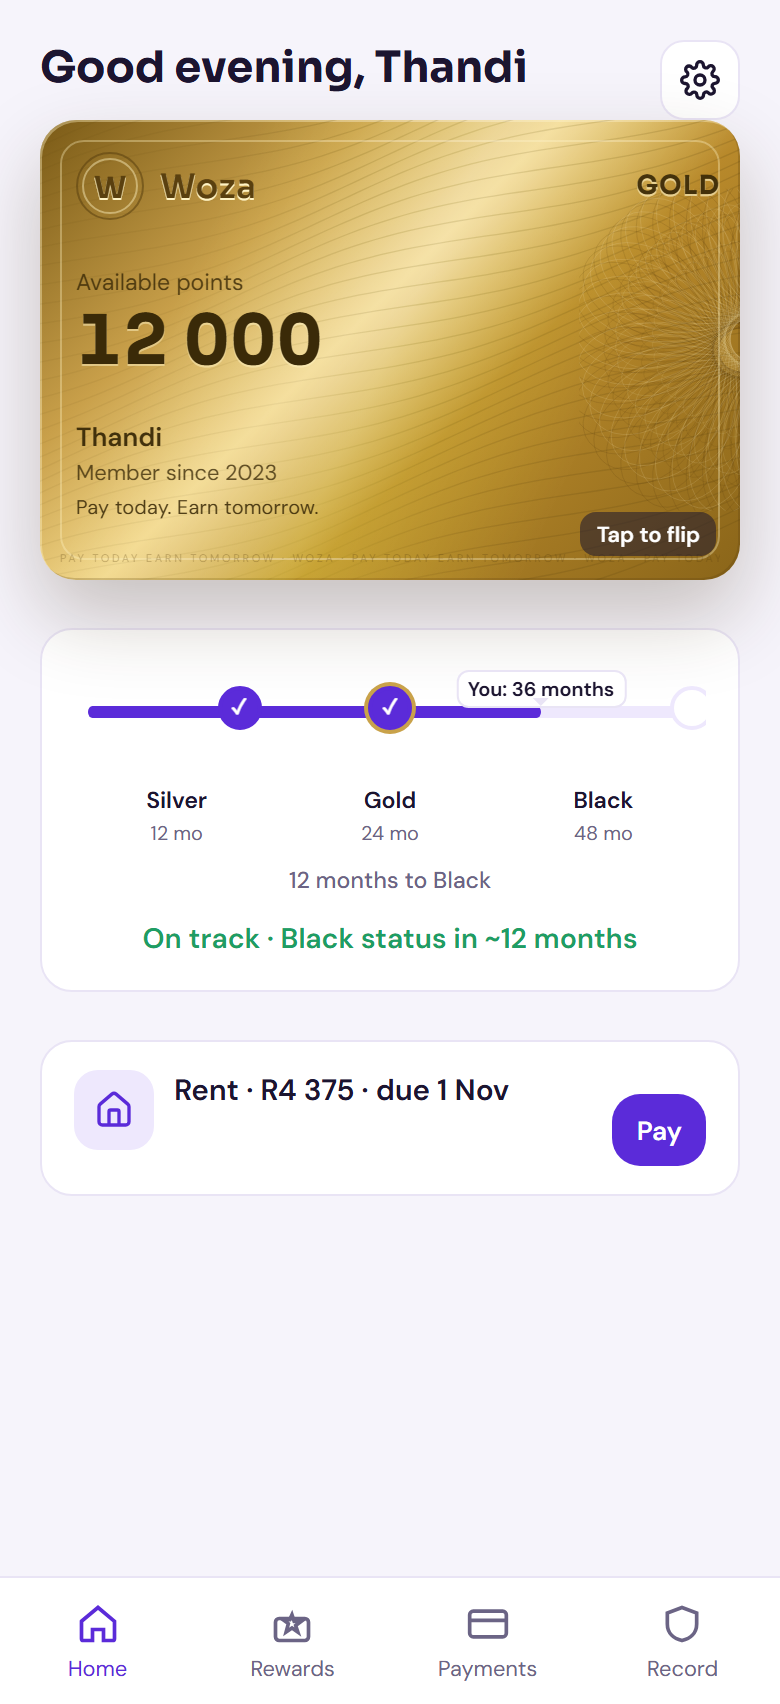
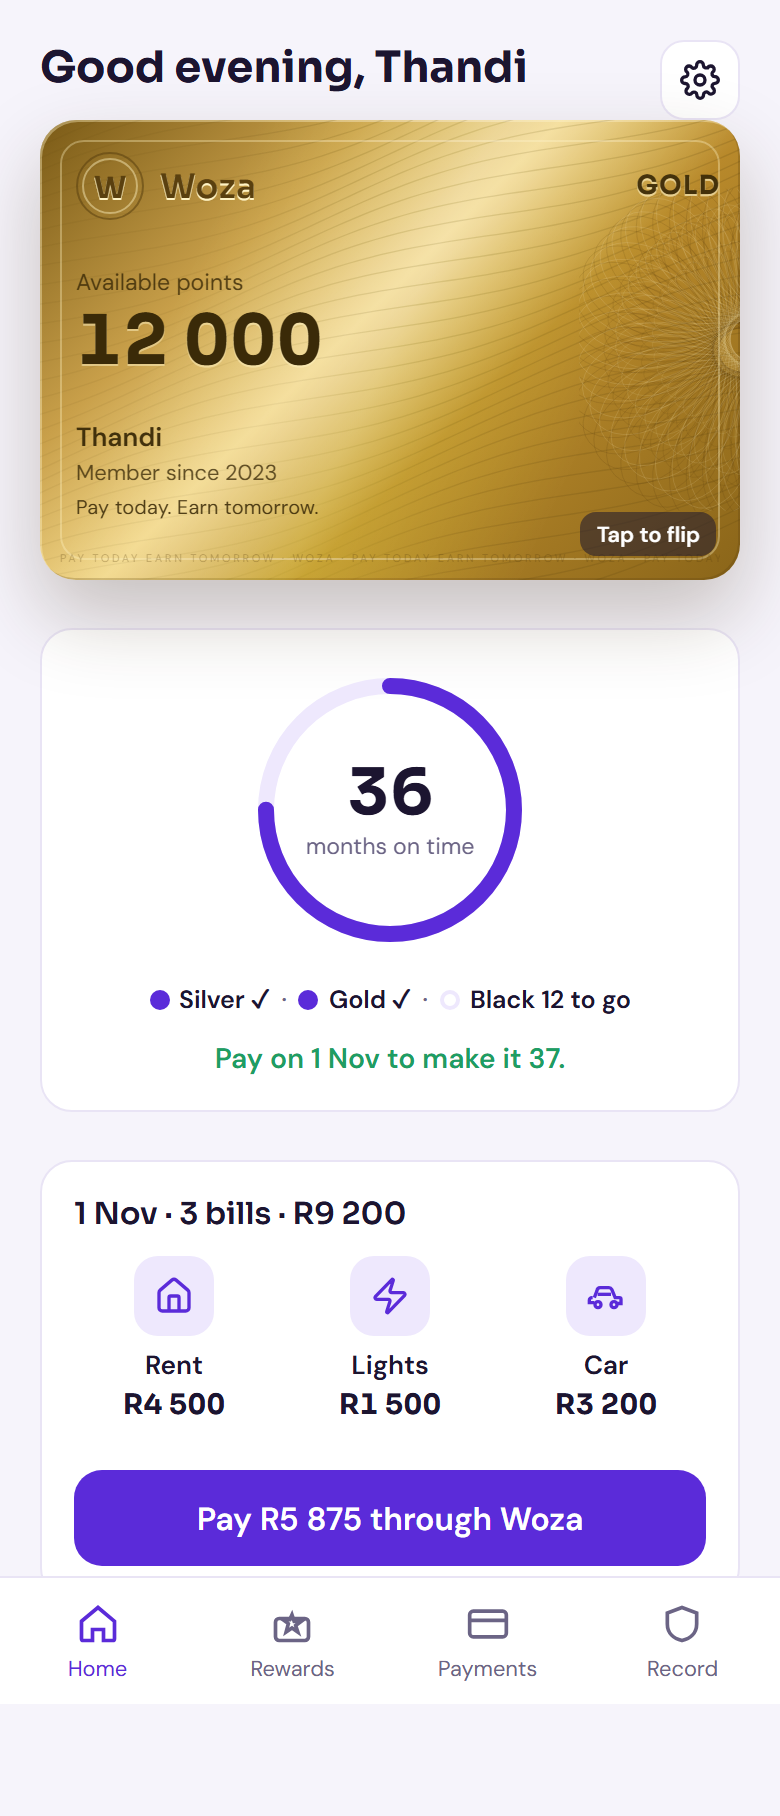
feat: Home — streak wheel, this month, no prose

diff --git a/static/index.html b/static/index.html
@@ -25,7 +25,7 @@
   <link rel="preconnect" href="https://fonts.gstatic.com" crossorigin />
   <link rel="stylesheet" href="https://fonts.googleapis.com/css2?family=DM+Sans:wght@400;500;600&family=Sora:wght@600;700&display=swap" media="print" onload="this.media='all'" />
   <noscript><link rel="stylesheet" href="https://fonts.googleapis.com/css2?family=DM+Sans:wght@400;500;600&family=Sora:wght@600;700&display=swap" /></noscript>
-  <link rel="stylesheet" href="/static/woza-card.css?v=20" />
+  <link rel="stylesheet" href="/static/woza-card.css?v=22" />
   <style>
     :root {
       --bg: #F6F4FB;
@@ -128,6 +128,31 @@
       color: var(--verified); font-weight: 600; font-size: 0.88rem;
       text-align: center; margin-top: 12px; line-height: 1.35;
     }
+    .home-status.is-nudge {
+      color: var(--gold); width: 100%; background: none; border: none;
+      padding: 0; font: inherit; font-weight: 600; font-size: 0.88rem;
+    }
+    .streak-dots {
+      display: flex; justify-content: center; align-items: center; flex-wrap: wrap;
+      gap: 6px; margin-top: 4px; font-size: 0.78rem; font-weight: 600;
+    }
+    .streak-dot-item { display: inline-flex; align-items: center; gap: 5px; white-space: nowrap; }
+    .streak-pip {
+      width: 10px; height: 10px; border-radius: 50%; flex-shrink: 0;
+      border: 2px solid var(--primary-soft); background: var(--surface); box-sizing: border-box;
+    }
+    .streak-dot-item.reached .streak-pip {
+      background: var(--primary); border-color: var(--primary);
+    }
+    .streak-sep { color: var(--muted); font-weight: 500; }
+    .month-bills {
+      display: grid; grid-template-columns: 1fr 1fr 1fr; gap: 8px;
+      margin: 12px 0;
+    }
+    .month-bill { text-align: center; min-width: 0; }
+    .month-bill .icon-wrap { margin: 0 auto 6px; }
+    .month-bill .row-title { font-size: 0.82rem; }
+    .month-bill .font-num { font-size: 0.88rem; margin-top: 2px; }
     .login-or {
       text-align: center; color: var(--muted); font-size: 0.82rem;
       margin: 16px 0 8px;
@@ -412,6 +437,9 @@
     .home-intro .score-fill {
       animation: scoreDraw var(--t-score) var(--ease-out) 650ms both;
     }
+    .home-intro .streak-ring .score-fill {
+      animation: streakDraw var(--t-score) var(--ease-out) 650ms both;
+    }
     .home-intro .score-ring em {
       opacity: 0;
       animation: fadeIn var(--t-fast) ease-out calc(650ms + var(--t-score)) both;
@@ -447,6 +475,10 @@
       from { stroke-dashoffset: 169.65; }
       to { stroke-dashoffset: var(--score-offset, 21.54); }
     }
+    @keyframes streakDraw {
+      from { stroke-dashoffset: 389.56; }
+      to { stroke-dashoffset: var(--forecast-offset, 97.39); }
+    }
 
     @media (prefers-reduced-motion: reduce) {
       .home-intro .card-flip,
@@ -455,6 +487,7 @@
       .home-intro .tier-stop.reached .tier-dot,
       .home-intro .tier-you,
       .home-intro .score-fill,
+      .home-intro .streak-ring .score-fill,
       .home-intro .score-ring em,
       .home-intro .bill-row,
       .sheet-check-mark,
@@ -465,6 +498,7 @@
       .home-intro .bill-row { opacity: 1 !important; transform: none !important; }
       .home-intro .tier-ladder-fill { transform: scaleX(var(--fill-to, 0.75)) !important; }
       .home-intro .score-fill { stroke-dashoffset: var(--score-offset, 21.54) !important; }
+      .home-intro .streak-ring .score-fill { stroke-dashoffset: var(--forecast-offset, 97.39) !important; }
       .sheet-check-mark { stroke-dashoffset: 0 !important; }
       .is-press, .is-release, .tap-press { transform: none !important; transition: none !important; }
       #appView .screen { transition: none !important; }
@@ -636,7 +670,7 @@
     </div>
   </div>
   <script src="/static/qrcode.js"></script>
-  <script src="/static/woza-card.js?v=20"></script>
+  <script src="/static/woza-card.js?v=22"></script>
 
   <script>
     const IC = {
@@ -805,54 +839,60 @@
       return u.available_points ?? u.points ?? 0;
     }
 
-    function tierLadderData(h, u) {
-      const mot = u.months_on_time ?? 36;
-      const max = 48;
-      if (h && h.tier_ladder) return h.tier_ladder;
-      const fill = Math.min(100, Math.round((mot / max) * 100));
-      const toBlack = Math.max(0, max - mot);
-      return {
-        months: mot,
-        max_months: max,
-        fill_pct: fill,
-        marker_pct: fill,
-        marker_label: `You: ${mot} months`,
-        caption_line: `${toBlack} months to Black`,
-        stops: [
-          { tier: "Silver", months: 12, pct: 25, reached: mot >= 12 },
-          { tier: "Gold", months: 24, pct: 50, reached: mot >= 24 },
-          { tier: "Black", months: 48, pct: 100, reached: mot >= 48 },
-        ],
-      };
+    const STREAK_MAX = 48;
+    const STREAK_C = 389.56;
+    const STREAK_STOPS = [
+      { name: "Silver", at: 12 },
+      { name: "Gold", at: 24 },
+      { name: "Black", at: 48 },
+    ];
+
+    function streakOffset(months) {
+      const p = Math.min(1, Math.max(0, Number(months) || 0) / STREAK_MAX);
+      return (STREAK_C * (1 - p)).toFixed(2);
     }
 
-    function tierLadderHtml(ladder) {
-      const check = "✓";
-      const stops = ladder.stops.map(s => {
-        const cls = [
-          "tier-stop",
-          String(s.tier || "").toLowerCase().replace(/[^a-z]/g, ""),
-          s.reached ? "reached" : "",
-        ].filter(Boolean).join(" ");
-        const inner = s.reached ? check : "";
-        return `<div class="${cls}" style="left:${Number(s.pct) || 0}%;--pop-at:${(Number(s.pct) / 100).toFixed(2)}"><div class="tier-dot">${inner}</div></div>`;
-      }).join("");
-      const labels = ladder.stops.map(s =>
-        `<span>${escapeHtml(s.tier)}</span>`).join("");
-      const subs = ladder.stops.map(s =>
-        `<span>${escapeHtml(s.months)} mo</span>`).join("");
-      return `
-        <div class="tier-ladder">
-          <div class="tier-ladder-rail">
-            <div class="tier-ladder-track"></div>
-            <div class="tier-ladder-fill" style="--fill-to:${(Number(ladder.fill_pct) / 100).toFixed(3)}"></div>
-            ${stops}
-            <div class="tier-you" style="left:${Number(ladder.marker_pct) || 0}%">${escapeHtml(ladder.marker_label)}</div>
-          </div>
-          <div class="tier-ladder-labels">${labels}</div>
-          <div class="tier-ladder-subs">${subs}</div>
-          <p class="tier-ladder-caption">${escapeHtml(ladder.caption_line)}</p>
-        </div>`;
+    function streakDotsHtml(months) {
+      const next = STREAK_STOPS.find((s) => months < s.at);
+      return STREAK_STOPS.map((s) => {
+        const reached = months >= s.at;
+        const isNext = !!(next && s.name === next.name);
+        const label = reached
+          ? `${s.name} ✓`
+          : isNext
+            ? `${s.name} ${s.at - months} to go`
+            : s.name;
+        return `<span class="streak-dot-item${reached ? " reached" : ""}"><i class="streak-pip" aria-hidden="true"></i>${escapeHtml(label)}</span>`;
+      }).join('<span class="streak-sep">·</span>');
+    }
+
+    function dueShortDate() {
+      const raw = (state && state.meta && state.meta.due_display) || "1 Nov 2026";
+      return String(raw).replace(/\s+\d{4}$/, "").trim() || "1 Nov";
+    }
+
+    function shortBillName(b) {
+      const cat = (b && b.category) || "";
+      if (cat === "utilities" || cat === "electricity") return "Lights";
+      if (cat === "car") return "Car";
+      if (cat === "rent") return "Rent";
+      const n = String((b && b.name) || "");
+      if (/utilit|electric|light/i.test(n)) return "Lights";
+      if (/car/i.test(n)) return "Car";
+      if (/rent/i.test(n)) return "Rent";
+      return n.split(/\s+/)[0] || "Bill";
+    }
+
+    function wozaPayDisplay() {
+      const p = (state && state.payments) || {};
+      const line = String(p.hero_you_pay_line || "");
+      const m = line.match(/R[\d\s]+/);
+      if (m) return m[0].replace(/\s+$/, "");
+      return p.hero_amount || "";
+    }
+
+    function randFromCents(cents) {
+      return `R${fmtPts(Math.floor((Number(cents) || 0) / 100))}`;
     }
 
     function syncWozaCardConfig() {
@@ -933,12 +973,17 @@
       if (ptsEl) ptsEl.textContent = fmtPts(0);
       if (prefersReduced()) {
         if (ptsEl) ptsEl.textContent = fmtPts(pts);
+        const streakEl = home.querySelector("[data-streak-num]");
+        if (streakEl) streakEl.textContent = String(Number((u && u.months_on_time) || 0));
         displayPoints = pts;
         markHomeIntroDone();
         home.classList.remove("home-intro");
         return;
       }
       countEase(ptsEl, 0, pts, 900, 250);
+      const streakEl = home.querySelector("[data-streak-num]");
+      const streakTo = Number((u && u.months_on_time) || 0);
+      if (streakEl) countEase(streakEl, 0, streakTo, 900, 400);
       homeIntroTimers.push(setTimeout(() => { displayPoints = pts; }, 1200));
       homeIntroTimers.push(setTimeout(() => {
         markHomeIntroDone();
@@ -1020,59 +1065,66 @@
 
     function renderHome() {
       const u = state.user;
-      const h = state.home || {};
-      const ladder = tierLadderData(h, u);
-      const next = nextActionBill();
-      const tight = tightForecastBill();
-      const overall = (forecastState && forecastState.overall) || {};
-      const nextStatus = overall.next_status || "Black";
-      const monthsTo = Number(overall.months_to_next_status ?? 12);
-      const canPay = next && next.payable_through_woza && !next.paid && !next.grace_used;
-      let trackExtra = "";
-      if (forecastState && !tight) {
-        trackExtra = `<p class="home-status">On track · ${escapeHtml(nextStatus)} status in ~${monthsTo} months</p>`;
+      const months = Number(u.months_on_time ?? 0);
+      const bills = paymentBills();
+      const tight = months > 0 ? tightForecastBill() : null;
+      const tightPay = tight ? (paymentBillById(tight.bill_id) || nextActionBill()) : null;
+      const due = dueShortDate();
+      const totalCents = bills.reduce((sum, b) => sum + (Number(b.amount_cents) || 0), 0);
+      const payAmt = wozaPayDisplay();
+      const p = state.payments || {};
+      const ringLabel = months <= 0 ? "Start your streak" : "months on time";
+      let lineHtml = "";
+      if (tight && tightPay) {
+        const short = shortBillName(tightPay);
+        const amt = tightPay.amount_display || randFromCents(tightPay.amount_cents);
+        lineHtml = `<button type="button" class="home-status is-nudge" id="homeNudge">${escapeHtml(short)} · ${escapeHtml(amt)} · looks tight — use a grace month?</button>`;
+      } else if (months <= 0) {
+        lineHtml = `<p class="home-status">Pay your first bill through Woza to start.</p>`;
+      } else {
+        lineHtml = `<p class="home-status">Pay on ${escapeHtml(due)} to make it ${months + 1}.</p>`;
       }
-      let nudgeHtml = "";
-      if (tight) {
-        const payBill = paymentBillById(tight.bill_id) || next;
-        const line = payBill ? billDueLine(payBill) : `${tight.name}`;
-        nudgeHtml = `
-          <div class="panel section">
-            <p class="row-title">${escapeHtml(line)}. Looks tight — use a grace month?</p>
-            <button type="button" class="btn-primary" id="homeGraceBtn" style="margin-top:12px">Use a grace month</button>
-          </div>`;
-      }
-      const nextHtml = next ? `
-        <div class="group-list section">
-          <div class="group-row bill-row" id="homeNextBill">
-            <span class="icon-wrap">${IC[next.category] || IC.rent}</span>
-            <div class="row-text">
-              <div class="row-title">${escapeHtml(billDueLine(next))}</div>
-            </div>
-            <div class="row-action">${canPay
-              ? `<button type="button" class="btn-primary" style="width:auto;height:36px;padding:0 12px;font-size:0.82rem;white-space:nowrap" id="homePayBtn">Pay</button>`
-              : (next.paid ? `<span class="badge badge-paid">Paid ✓</span>` : "")}</div>
-          </div>
-        </div>` : "";
+      const monthBills = bills.map((b) => `
+        <div class="month-bill">
+          <span class="icon-wrap">${IC[b.category] || IC.rent}</span>
+          <div class="row-title">${escapeHtml(shortBillName(b))}</div>
+          <div class="font-num">${escapeHtml(b.amount_display || randFromCents(b.amount_cents))}</div>
+        </div>`).join("");
+      const payBtnHtml = (p.payable_outstanding && payAmt)
+        ? `<button type="button" class="btn-primary" id="homePayWoza">Pay ${escapeHtml(payAmt)} through Woza</button>`
+        : "";
       document.getElementById("screenHome").innerHTML = `
         <div class="home-head">
           <h2 class="page-title home-greeting">${localGreeting(u.name)}</h2>
           <button type="button" class="home-gear" id="homeGear" aria-label="Settings">
-            <svg viewBox="0 0 24 24"><circle cx="12" cy="12" r="3"/><path d="M19.4 15a1.7 1.7 0 0 0 .3 1.8l.1.1a2 2 0 1 1-2.8 2.8l-.1-.1a1.7 1.7 0 0 0-1.8-.3 1.7 1.7 0 0 0-1 1.5V21a2 2 0 1 1-4 0v-.1a1.7 1.7 0 0 0-1-1.5 1.7 1.7 0 0 0-1.8.3l-.1.1a2 2 0 1 1-2.8-2.8l.1-.1a1.7 1.7 0 0 0 .3-1.8 1.7 1.7 0 0 0-1.5-1H3a2 2 0 1 1 0-4h.1a1.7 1.7 0 0 0 1.5-1 1.7 1.7 0 0 0-.3-1.8l-.1-.1a2 2 0 1 1 2.8-2.8l.1.1a1.7 1.7 0 0 0 1.8.3H9a1.7 1.7 0 0 0 1-1.5V3a2 2 0 1 1 4 0v.1a1.7 1.7 0 0 0 1 1.5 1.7 1.7 0 0 0 1.8-.3l.1-.1a2 2 0 1 1 2.8 2.8l-.1.1a1.7 1.7 0 0 0-.3 1.8V9c.3.6.9 1 1.5 1H21a2 2 0 1 1 0 4h-.1a1.7 1.7 0 0 0-1.5 1z"/></svg>
+            <svg viewBox="0 0 24 24"><circle cx="12" cy="12" r="3"/><path d="M19.4 15a1.7 1.7 0 0 0 .3 1.8l.1.1a2 2 0 1 1-2.8 2.8l-.1-.1a1.7 1.7 0 0 0-1.8-.3 1.7 1.7 0 0 0-1 1.5V21a2 2 0 1 1-4 0v-.1a1.7 1.7 0 0 0-1-1.5 1.7 1.7 0 0 0-1.8.3l-.1.1a2 2 0 1 1-2.8-2.8l.1-.1a1.7 1.7 0 0 0 .3-1.8 1.7 1.7 0 0 0-1.5-1H3a2 2 0 1 1 0-4h.1a1.7 1.7 0 0 0 1.5-1 1.7 1.7 0 0 0-.3-1.8l-.1-.1a2 2 0 1 1 2.8-2.8l.1.1a1.7 1.7 0 0 0 1.8.3H9a1.7 1.7 0 0 0 1-1.5V3a2 2 0 1 1 4 0v.1a1.7 1.7 0 0 0 1 1.5 1.7 1.7 0 0 0 1.8-.3l.1.1a2 2 0 1 1 2.8 2.8l-.1.1a1.7 1.7 0 0 0-.3 1.8V9c.3.6.9 1 1.5 1H21a2 2 0 1 1 0 4h-.1a1.7 1.7 0 0 0-1.5 1z"/></svg>
           </button>
         </div>
         ${membershipCard(u, false)}
-        <div class="section panel tier-ladder-panel">
-          ${tierLadderHtml(ladder)}
-          ${trackExtra}
+        <div class="section panel" id="streakWheel">
+          <div class="forecast-ring streak-ring" style="--forecast-offset:${streakOffset(months)}">
+            <svg viewBox="0 0 148 148" aria-hidden="true">
+              <circle class="score-track" cx="74" cy="74" r="62"/>
+              <circle class="score-fill" cx="74" cy="74" r="62"/>
+            </svg>
+            <div class="forecast-ring-text">
+              <strong class="font-num" data-streak-num>${months}</strong>
+              <em>${escapeHtml(ringLabel)}</em>
+            </div>
+          </div>
+          <div class="streak-dots">${streakDotsHtml(months)}</div>
+          ${lineHtml}
         </div>
-        ${nudgeHtml}
-        ${nextHtml}`;
-      const payBtn = document.getElementById("homePayBtn");
-      if (payBtn && next) payBtn.onclick = () => openPaySheet(next);
-      const graceBtn = document.getElementById("homeGraceBtn");
-      if (graceBtn && tight) {
-        graceBtn.onclick = () => openGraceSheet(paymentBillById(tight.bill_id) || next, tight);
+        <div class="section panel" id="thisMonth">
+          <h3>${escapeHtml(due)} · ${bills.length} bills · ${escapeHtml(randFromCents(totalCents))}</h3>
+          <div class="month-bills">${monthBills}</div>
+          ${payBtnHtml}
+        </div>`;
+      const payBtn = document.getElementById("homePayWoza");
+      if (payBtn) payBtn.onclick = () => showTab("payments");
+      const nudge = document.getElementById("homeNudge");
+      if (nudge && tight) {
+        nudge.onclick = () => openGraceSheet(tightPay, tight);
       }
       const gear = document.getElementById("homeGear");
       if (gear) gear.onclick = openHomeSettings;

diff --git a/static/sw.js b/static/sw.js
@@ -1,4 +1,4 @@
-const CACHE = "woza-v20";
+const CACHE = "woza-v22";
 const PRECACHE = [
   "/",
   "/static/manifest.json",

diff --git a/scripts/screenshots.py b/scripts/screenshots.py
@@ -229,8 +229,9 @@ def capture_login(page: Page, base_url: str) -> None:
 def capture_home(page: Page) -> None:
     show_tab(page, "home")
     page.wait_for_selector("#screenHome .mem-tier", timeout=10_000)
-    page.wait_for_selector("#homeNextBill", timeout=10_000)
-    page.wait_for_selector("#screenHome .home-status, #homeGraceBtn", timeout=15_000)
+    page.wait_for_selector("#streakWheel", timeout=10_000)
+    page.wait_for_selector("#thisMonth", timeout=10_000)
+    page.wait_for_selector("#homePayWoza, #screenHome .home-status", timeout=15_000)
 
 
 def capture_home_card_back(page: Page) -> None:
@@ -255,7 +256,7 @@ def capture_pay_rent(page: Page) -> None:
 
 def capture_grace(page: Page) -> None:
     show_tab(page, "home")
-    grace_btn = page.locator("#homeGraceBtn")
+    grace_btn = page.locator("#homeNudge")
     if grace_btn.count() and grace_btn.is_visible():
         grace_btn.click()
         page.wait_for_selector("#sheet.open", timeout=8_000)

diff --git a/tools/screenshots.py b/tools/screenshots.py
@@ -143,11 +143,11 @@ def run_all_steps(page: Page, out_dir: Path, results: dict[str, str], prefix: st
         page.wait_for_selector("#loginView", timeout=10_000)
         sign_in(page)
         page.wait_for_selector(".mem-points", timeout=15_000)
-        page.wait_for_selector("text=12 months to Black", timeout=10_000)
+        page.wait_for_selector("#streakWheel", timeout=10_000)
         page.wait_for_selector("#screenHome .home-greeting", timeout=10_000)
         page.wait_for_selector("#screenHome .mem-tier:has-text('Gold')", timeout=10_000)
-        page.wait_for_selector("text=You: 36 months", timeout=10_000)
-        page.wait_for_selector("#homeNextBill", timeout=10_000)
+        page.wait_for_selector("#thisMonth", timeout=10_000)
+        page.wait_for_selector("text=months on time", timeout=10_000)
         page.wait_for_timeout(2_000)
 
     run_step(results, key("02_home"), page, out_dir, "02_home", login_demo, full_page=True)
